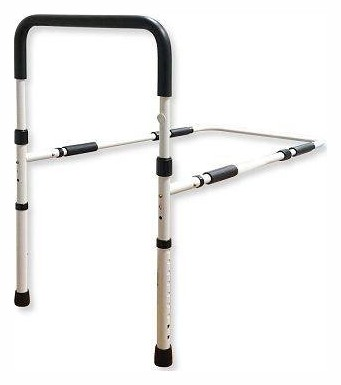
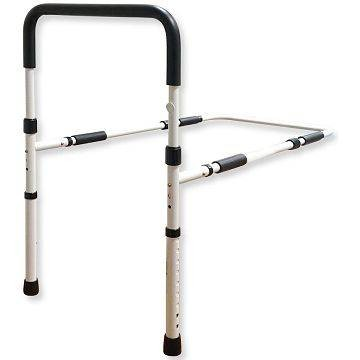
商品圖改用個別顯示設定，還原原圖
- 商品圖還原成原檔，移除 img/products/original/ 備份與 tools/crop-products.ps1
- RECOMMENDS.images 改成 { src, fit, pos, detailFit }（相容舊的字串寫法）
  fit: contain 完整顯示（16 內距＋multiply）／cover 填滿裁切（無內距、無 multiply）
- 彈力帶 cover 50% 55%；浴室止滑地墊為滿版情境照，cover 會切到文字或地墊，改用 contain
- 修正圖片框沒有撐滿圖片區（grid 內 height: 100% 變成原圖比例，超出部分被裁掉）
- 商品圖網址加上 ?v=APP_VERSION，換同檔名圖片時不吃舊快取

diff --git a/js/recommend.js b/js/recommend.js
@@ -15,7 +15,11 @@
  * 依風險等級推薦：level 1–5 對應 低、稍低、中、高、危險
  * 欄位對應之後的後台：images（0～3 張）、name（≤16 字）、desc（≤60 字）、discount（選填，1～99 的整數：9 = 9 折、85 = 85 折）、expire（選填）
  *   name、desc：多語物件 { "zh-TW", en, ja }（key 同 js/app-i18n.js；缺的語系退回 zh-TW）；也接受字串（舊資料、後台資料）
- *   images：相對於網站根目錄的路徑（例如 img/products/x.jpg），或完整網址；檔案不存在時自動改顯示「商品圖片」占位
+ *   images：每張圖 { src, fit, pos, detailFit }（也接受舊的字串寫法：字串 = src，其他用預設值）
+ *     src：相對於網站根目錄的路徑（例如 img/products/x.jpg），或完整網址；檔案不存在時自動改顯示「商品圖片」占位
+ *     fit：'contain' 完整顯示（預設；圖片區留 16 內距、白底用 multiply 融進底色）／'cover' 填滿裁切（不留內距、不 multiply）
+ *     pos：object-position，預設 '50% 50%'
+ *     detailFit：詳細頁（圖片區是正方形）要用的 fit；沒填就沿用 fit
  * 讀取用 getRecommend(level)：先讀 localStorage「kf.admin.recommends」（之後的後台寫入；這次不做寫入），沒有就用這裡的預設值
  * TODO：優惠券目前只做外觀，券號、QR 都是示範，沒有核銷、沒有防重複
  * ========================================================= */
@@ -24,27 +28,30 @@ const RECOMMENDS = [
     name: { "zh-TW": "彈力帶訓練組", en: "Resistance Band Set" },
     desc: { "zh-TW": "三種阻力由輕到重，坐著也能做腿部運動，輕巧好收納，在家隨時練。",
             en: "Three resistance levels from light to heavy. Do leg exercises even while seated. Light and easy to store, so you can train at home anytime." },
-    images: ["img/products/resistance-band.jpg"], discount: 85, expire: "2026/12/31" },
+    // 原圖 768×768、淺灰底 RGB 244，商品約在 x 91–678、y 205–629：填滿後灰底撐滿圖片區，商品不會被切到
+    images: [{ src: "img/products/resistance-band.jpg", fit: "cover", pos: "50% 55%" }], discount: 85, expire: "2026/12/31" },
   { level: 2,
     name: { "zh-TW": "平衡訓練軟墊", en: "Balance Training Pad" },
     desc: { "zh-TW": "軟墊表面可以練習腳踝穩定，底部防滑不易移動，搭配椅背扶著，在家就能練習。",
             en: "The soft surface helps you practice ankle stability. The non-slip base stays in place. Hold a chair back for support and practice at home." },
-    images: ["img/products/balance-pad.jpg"], discount: 9, expire: "2026/12/31" },
+    images: [{ src: "img/products/balance-pad.jpg", fit: "contain" }], discount: 9, expire: "2026/12/31" },
   { level: 3,
     name: { "zh-TW": "浴室止滑地墊", en: "Non-slip Bath Mat" },
     desc: { "zh-TW": "吸盤底面牢牢貼合地板，表面防滑紋路，淋浴時腳步更穩，可整片沖洗晾乾。",
             en: "Suction cups hold it firmly to the floor, and the textured surface helps you step steadily in the shower. Rinse and air-dry with ease." },
-    images: ["img/products/bath-mat.jpg"], discount: 9, expire: "2026/12/31" },
+    // 原圖 1000×1000 是滿版情境照（四周沒有白帶）：標題文字約 y 55–245、地墊約 y 365–905，
+    // 1.6:1 的圖片區用 cover 只看得到 625px 高，一定會切到文字或地墊，所以用 contain 完整顯示
+    images: [{ src: "img/products/bath-mat.jpg", fit: "contain" }], discount: 9, expire: "2026/12/31" },
   { level: 4,
     name: { "zh-TW": "床邊起身扶手", en: "Bedside Assist Rail" },
     desc: { "zh-TW": "壓在床墊下固定不用打牆，起身坐下有地方扶。選購前建議請專業人員評估。",
             en: "Secures under the mattress with no drilling. Gives you something to hold when getting up or sitting down. Please consult a professional before buying." },
-    images: ["img/products/bed-rail.jpg"], discount: 9, expire: "" },
+    images: [{ src: "img/products/bed-rail.jpg", fit: "contain" }], discount: 9, expire: "" },
   { level: 5,
     name: { "zh-TW": "跌倒偵測緊急呼叫器", en: "Fall Detection Alert Device" },
     desc: { "zh-TW": "隨身配戴，偵測到跌倒自動通知家人，也可一鍵求救。建議盡快請專業人員評估。",
             en: "A wearable device that automatically alerts your family when a fall is detected, with one-touch emergency calling. Please consult a professional soon." },
-    images: ["img/products/fall-alert.jpg"], discount: 85, expire: "" },
+    images: [{ src: "img/products/fall-alert.jpg", fit: "contain" }], discount: 85, expire: "" },
 ];
 // 優惠券 QR：和結果總覽的報告 QR 同一種做法（目前是固定的示範圖片）
 // TODO：之後依券號產生（或由後台提供）QR 圖片
@@ -80,10 +87,22 @@ const recDesc = (rec) => pickLang(rec?.desc);
 
 /* 圖片路徑：相對路徑以網站根目錄為準（本檔在 js/，所以根目錄 = 本檔的上一層）；完整網址、/ 開頭、./ ../ 開頭照原樣 */
 const REC_ROOT = new URL("../", document.currentScript?.src || location.href);
+// 版本號：網站內的商品圖網址加上 ?v=APP_VERSION；換了同檔名的圖片時改這裡，瀏覽器與 GitHub Pages 才不會用舊的快取
+const APP_VERSION = "2026.11.27-2";
 function recImgSrc(src) {
   const v = String(src || "");
-  if (/^([a-z][a-z0-9+.-]*:|\/|\.\.?\/)/i.test(v)) return v;
-  return new URL(v, REC_ROOT).href;
+  if (/^([a-z][a-z0-9+.-]*:|\/\/)/i.test(v)) return v; // 完整網址（外部圖片）照原樣
+  const url = /^(\/|\.\.?\/)/.test(v) ? new URL(v, location.href) : new URL(v, REC_ROOT);
+  if (url.origin === location.origin && !url.searchParams.has("v")) url.searchParams.set("v", APP_VERSION);
+  return url.href;
+}
+// 每張圖的設定：字串（舊寫法）當成 { src }；fit 只接受 contain／cover，pos 只接受數字、%、px 與方位詞
+function recImg(x, detail = false) {
+  const o = typeof x === "string" ? { src: x } : x && typeof x === "object" ? x : {};
+  const pick = (v) => (v === "cover" || v === "contain" ? v : null);
+  const fit = (detail && pick(o.detailFit)) || pick(o.fit) || "contain";
+  const pos = /^[\d.%\sa-z-]{1,40}$/i.test(String(o.pos ?? "")) ? String(o.pos) : "50% 50%";
+  return { src: String(o.src || ""), fit, pos };
 }
 const REC_PH_HTML = () => `<i class="ti ti-photo" aria-hidden="true"></i><span>${recText("ph")}</span>`;
 
@@ -122,12 +141,15 @@ function discountOf(rec) {
   }
   return null;
 }
-// 商品圖片區：最多 3 張；圖片載入失敗時由 recInit 換成占位（不出現破圖）
-function recMediaHTML(rec) {
-  const images = (Array.isArray(rec.images) ? rec.images.filter(Boolean) : []).slice(0, 3);
+// 商品圖片區：最多 3 張；每張依設定 object-fit／object-position（cover 時 .is-cover 拿掉內距與 multiply）；
+// detail：詳細頁（正方形圖片區，用 detailFit）；圖片載入失敗時由 recInit 換成占位（不出現破圖）
+function recMediaHTML(rec, { detail = false } = {}) {
+  const images = (Array.isArray(rec.images) ? rec.images : []).map((x) => recImg(x, detail)).filter((x) => x.src).slice(0, 3);
   const name = recName(rec);
   const slides = images.length
-    ? images.map((src) => `<div class="rec-slide"><img src="${recEsc(recImgSrc(src))}" alt="${recEsc(name)}" draggable="false" /></div>`).join("")
+    ? images
+        .map((im) => `<div class="rec-slide is-${im.fit}"><img src="${recEsc(recImgSrc(im.src))}" alt="${recEsc(name)}" draggable="false" style="object-fit:${im.fit};object-position:${recEsc(im.pos)}" /></div>`)
+        .join("")
     : `<div class="rec-slide rec-ph">${REC_PH_HTML()}</div>`; // 還沒有商品圖：統一的占位
   return `<div class="rec-media">
       <div class="rec-track">${slides}</div>
@@ -139,6 +161,7 @@ function recMediaHTML(rec) {
 function recImgFallback(img) {
   const slide = img.closest(".rec-slide");
   if (!slide || slide.classList.contains("rec-ph")) return;
+  slide.classList.remove("is-cover", "is-contain");
   slide.classList.add("rec-ph", "is-missing");
   slide.innerHTML = REC_PH_HTML();
 }

diff --git a/css/recommend.css b/css/recommend.css
@@ -22,20 +22,35 @@
 .rec-track.is-dragging {
   transition: none;
 }
+/* 每一張：--rec-pad 是圖片與圖片區邊緣的內距（contain 16、cover 0） */
 .rec-slide {
+  --rec-pad: calc(16 * var(--ru, 1px));
+  position: relative;
   flex: 0 0 100%;
   display: grid;
   place-items: center;
-  padding: calc(16 * var(--ru, 1px));
+  padding: var(--rec-pad);
 }
-/* 商品圖：完整顯示（contain）；白底的商品圖用 multiply 和底色漸層融合，去背圖不受影響 */
+/* 商品圖：預設完整顯示（contain，object-fit／object-position 由 js/recommend.js 依每張圖的設定寫在 style）；
+ * 白底的商品圖用 multiply 和底色漸層融合，去背圖不受影響
+ * 圖片框用絕對定位撐滿「圖片區扣掉內距」的範圍（grid 裡的 height: 100% 會變成圖片原本的比例，超出圖片區被裁掉） */
 .rec-slide img {
-  width: 100%;
-  height: 100%;
+  position: absolute;
+  left: var(--rec-pad);
+  top: var(--rec-pad);
+  width: calc(100% - 2 * var(--rec-pad));
+  height: calc(100% - 2 * var(--rec-pad));
   object-fit: contain;
   mix-blend-mode: multiply;
   -webkit-user-drag: none;
   pointer-events: none;
+}
+/* fit: 'cover'：圖片貼滿圖片區（不留內距，圓角由圖片區裁切），不套用 multiply；「依您的結果推薦」膠囊仍疊在上面 */
+.rec-slide.is-cover {
+  --rec-pad: 0px;
+}
+.rec-slide.is-cover img {
+  mix-blend-mode: normal;
 }
 /* 還沒有商品圖：統一占位（圖示＋「商品圖片」） */
 .rec-ph {

diff --git a/js/detail-common.js b/js/detail-common.js
@@ -584,7 +584,7 @@ function renderRecommendBlock(level) {
   const box = $("#recBox");
   // 券號：同一份報告每次打開都一樣（TODO：之後由系統發券）
   const seed = getExamTokenFromUrl() || "preview";
-  box.innerHTML = `${recMediaHTML(rec)}
+  box.innerHTML = `${recMediaHTML(rec, { detail: true })}
     <div class="rec-info">
       <div class="rec-name"${langAttr(rec.name, I18N.lang)}>${recEsc(recName(rec))}</div>
       ${recDesc(rec) ? `<div class="rec-desc"${langAttr(rec.desc, I18N.lang)}>${recEsc(recDesc(rec))}</div>` : ""}
